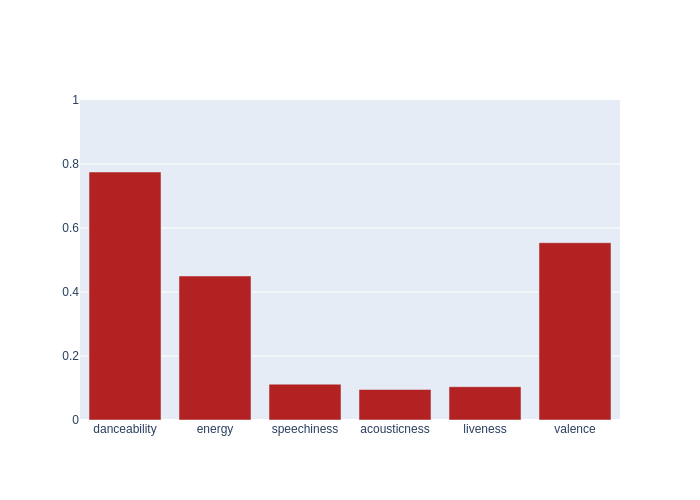
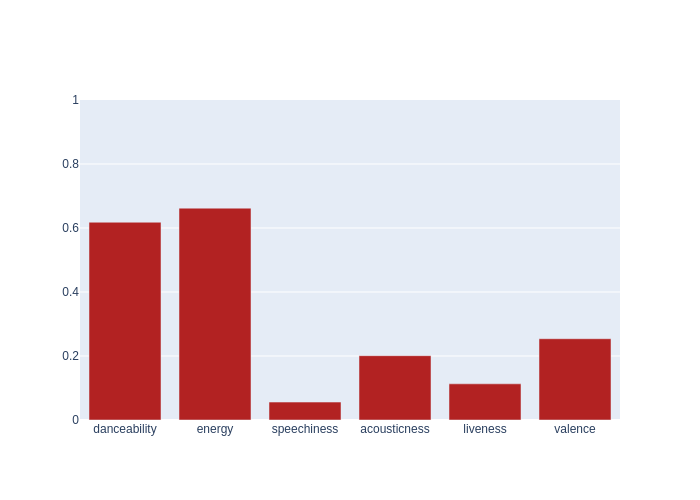
Automated README update

diff --git a/README.md b/README.md
@@ -4,7 +4,7 @@ Automated music metrics for fun, updated hourly.
 
 ## Spotify
 
-- currently listening to **Ollie - Need Someone**
+- currently listening to **Zeds Dead - i think you're cool**
 
 - **923** liked songs
 - **156** playlists
